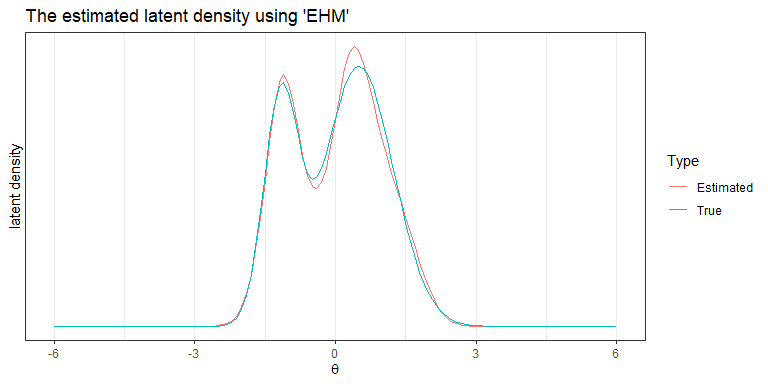
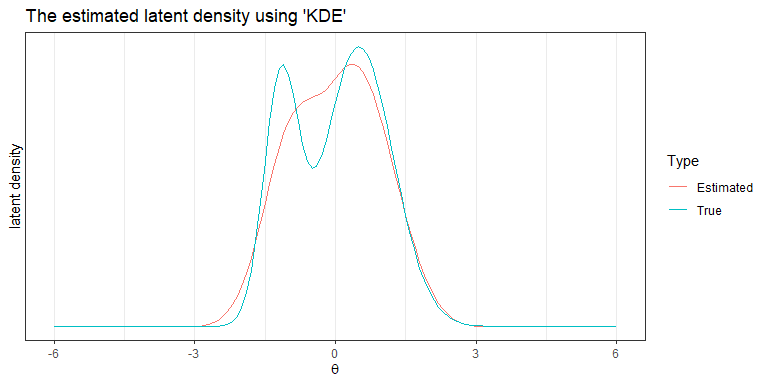
readme updated

diff --git a/README.md b/README.md
@@ -85,16 +85,17 @@ theta <- Alldata$theta
 
 -   Analysis
 
-For an illustrative purpose, empirical histogram method is used for
-estimation of latent distribution.
+For an illustrative purpose, kernel density estimation method is used
+for the estimation of latent distribution.
 
 ``` r
 Mod1 <- IRTest_Dich(initialitem = initialitem,
                     data = data,
                     model = rep(1, 20),
-                    latent_dist = "EHM",
+                    latent_dist = "KDE",
                     max_iter = 200,
-                    threshold = .001
+                    threshold = .001,
+                    bandwidth = "SJ-ste"
                     )
 ```
 
@@ -128,26 +129,26 @@ item
 ### Estimated item parameters
 Mod1$par_est
 #>       a           b c
-#>  [1,] 1 -0.81778940 0
-#>  [2,] 1  0.95147161 0
-#>  [3,] 1  0.47031687 0
-#>  [4,] 1 -0.05744344 0
-#>  [5,] 1 -0.85035950 0
-#>  [6,] 1 -0.43165890 0
-#>  [7,] 1  0.88522005 0
-#>  [8,] 1 -0.31579314 0
-#>  [9,] 1 -1.16806277 0
-#> [10,] 1  0.53663630 0
-#> [11,] 1 -1.07440478 0
-#> [12,] 1 -1.16213006 0
-#> [13,] 1  0.07098615 0
-#> [14,] 1  1.25366401 0
-#> [15,] 1 -0.42659144 0
-#> [16,] 1  0.20463597 0
-#> [17,] 1 -1.37707762 0
-#> [18,] 1  0.59841164 0
-#> [19,] 1 -0.75333017 0
-#> [20,] 1 -1.69652969 0
+#>  [1,] 1 -0.81623195 0
+#>  [2,] 1  0.95015752 0
+#>  [3,] 1  0.46915203 0
+#>  [4,] 1 -0.05749927 0
+#>  [5,] 1 -0.84878003 0
+#>  [6,] 1 -0.43074133 0
+#>  [7,] 1  0.88386899 0
+#>  [8,] 1 -0.31516204 0
+#>  [9,] 1 -1.16661181 0
+#> [10,] 1  0.53539420 0
+#> [11,] 1 -1.07284758 0
+#> [12,] 1 -1.16067060 0
+#> [13,] 1  0.07060026 0
+#> [14,] 1  1.25273942 0
+#> [15,] 1 -0.42568580 0
+#> [16,] 1  0.20393832 0
+#> [17,] 1 -1.37608089 0
+#> [18,] 1  0.59711331 0
+#> [19,] 1 -0.75183337 0
+#> [20,] 1 -1.69678802 0
 
 ### Plotting
 par(mfrow=c(1,2))
@@ -166,12 +167,8 @@ plot_LD(Mod1)+geom_line(mapping = aes(colour="Estimated"))+
   geom_line(mapping=aes(x=seq(-6,6,length=121), 
                         y=dist2(seq(-6,6,length=121),prob = .3, d=1.664, sd_ratio = 2), 
                         colour="True"))+
-  labs(title="The estimated latent density using 'EHM'",
+  labs(title="The estimated latent density using 'KDE'",
        colour= "Type")+theme_bw()
 ```
 
 <img src="man/figures/README-plotLD-1.png" width="100%" style="display: block; margin: auto;" />
-
-The discrepancy between the estimated and true densities is observed.
-Only the restricted amount of data was created for illustrative purpose,
-which is the main cause of this discrepancy.
